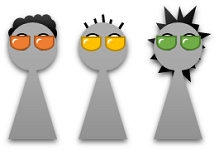
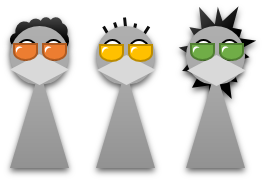
20200929

diff --git a/style/main.css b/style/main.css
@@ -4,7 +4,7 @@ h1,
 h2,
 h3 {
     font-family: Bahnschrift, "Exo 2", sans-serif;
-    text-shadow: 1px 1px 2px darkslategray;
+    text-shadow: 1px 1px 2px #555;
     font-weight: normal;
 }
 
@@ -13,7 +13,7 @@ h5 {
 }
 
 hr {
-    border: 1px solid darkslategray;
+    border: 1px solid #555;
 }
 
 .remark-slide-content {
@@ -22,7 +22,7 @@ hr {
     font-family: "Segoe UI", "Open Sans", sans-serif;
     font-size: 34px;
     color: #333333;
-    border-left: 1em solid darkslategray;
+    border-left: 1em solid #330000;
     padding: 1em 3em;
 }
 
@@ -128,7 +128,7 @@ hr {
 }
 
 .high {
-    font-size: 1.1em;
+    font-size: 1.2em;
 }
 
 .small {

diff --git a/slides.md b/slides.md
@@ -1,11 +1,116 @@
 name: title
 class: middle
 
-# A thousand Djangoes within<br/><small>or Django multi-tenant</small>
+# .high[A thousand Djangoes within]<br/>&nbsp;<small>or Django multi-tenant</small>
 
-<hr/>
+.right[![Logo of PyCon India 2020](images/logo.png)]
 
-![Logo of PyCon India 2020](images/logo.png)
+---
+
+## Syntax error
+
+Django.emph[es] &rightarrow; Django
+
+-   Django.emph[s]
+-   Django.emph[es]
+
+--
+
+<br/>
+
+# A thousand Django.emph[es] within
+
+---
+
+## Hi, I am...
+
+.left-column-66[
+
+#### Lorenzo Peña
+
+-   Proud citizen of Holguín, Cuba
+-   Django developer for 11 years
+-   Chaser of multi-tenancy challenges
+
+]
+.right-column-33[![Photo of myself](images/lorinkoz.jpg)]
+
+---
+
+class: middle
+layout: false
+
+## .blue[How to fit a thousand Djangoes within single a Django?]
+
+--
+
+# .green[Why does it matter?]
+
+---
+
+class: middle center
+layout: false
+
+![Meme of Abe Simpson with kids around](images/abe-simpson-meme.png)
+
+---
+
+layout: true
+
+## A tale of fitting Djangoes
+
+---
+
+--
+
+-   Once upon a time customer .red[**red**] had a problem.
+
+--
+
+-   Our brave hero developed a solution.
+
+--
+
+-   But then, customers .blue[**blue**], .green[**green**] and .yellow[**yellow**] showed up with the same problem.
+
+--
+
+.left-column-66[.box[🤔 What should our hero do?]]
+.right-column-33[.right[![Screenshot of Townscaper with a tiny red house](images/problem-solved.png)]]
+
+---
+
+.left-column-66[![Screenshot of Townscaper with tiny houses](images/single-tenancy.png)]
+
+--
+
+.right-column-33[
+
++20 tenacity
+<br/>
++10 strength
+<br/>
++30 patience
+
+]
+
+---
+
+.left-column-66[![Screenshot of Townscaper with an apartment building](images/multi-tenancy.png)]
+
+--
+
+.right-column-33[
+
++30 intelligence
+<br/>
++40 charisma
+<br/>
+mysterious gauntlet
+<br/>
+brand new badge
+
+]
 
 ---
 
@@ -22,36 +127,11 @@ layout: true
 
 ---
 
--   Customer .red[**red**] has a problem.
-
---
-
--   You develop a solution.
-
---
-
--   Now, customers .blue[**blue**], .green[**green**] and .yellow[**yellow**] have the same problem.
-
---
-
-.left-column-66[.box[🤔 What to do?]]
-.right-column-33[.right[![Screenshot of Townscaper with a tiny red house](images/problem-solved.png)]]
-
----
-
-.center[![Screenshot of Townscaper with tiny houses](images/single-tenancy.png)]
-
----
-
-.center[![Screenshot of Townscaper with an apartment building](images/multi-tenancy.png)]
-
----
-
 .left-column-66[
 
--   Software architecture.
--   Single instance of software.
--   Serves multiple tenants.
+-   Software architecture
+-   Single instance of software
+-   Serves multiple tenants
 
 ]
 
@@ -74,8 +154,8 @@ layout: true
 
 .left-column-66[
 
--   Isolated spaces.
--   Users with specific privileges interact.
+-   Isolated spaces
+-   Users with specific privileges interact
 
 ]
 .right-column-33[
@@ -110,6 +190,19 @@ layout: true
 
 ---
 
+layout: true
+class: middle center
+
+---
+
+![Meme of Multi-tenant Thanos saying "I'm inevitable"](images/thanos-meme-1.png)
+
+---
+
+![Meme of Ironman saying "I am a Django developer"](images/thanos-meme-2.png)
+
+---
+
 layout: false
 
 .box[`echo "Awesome!"`<br/>`python3 manage.py add-multi-tenancy --asap`]
@@ -123,13 +216,21 @@ layout: false
 layout: false
 class: middle
 
-# The active tenant
+# A thousand Djangoes within
+
+--
+
+-   The active tenant
+-   Three architectural choices
+-   The scope of everything else
 
 ---
 
 layout: true
 
 ## The active tenant
+
+---
 
 ---
 
@@ -392,7 +493,7 @@ class IsolatedTenantsDatabaseRouter:
 
 ---
 
-.center[![Scrooge McDuck in a pile of money](images/mcduck-gold.png)]
+.center[![Image of three very rich Bollywood actors](images/rich-indian-actors.png)]
 
 ---
 
@@ -825,48 +926,7 @@ def some_celery_task(self, `tenant_id`, ...):
 
 ---
 
-class: middle
 layout: false
-
-# Now, some of the packages
-
----
-
-layout: true
-
-## Available packages
-
----
-
-##### Shared database
-
--   [citusdata/django-multitenant](https://github.com/citusdata/django-multitenant)
--   [raphaelm/django-scopes](https://github.com/raphaelm/django-scopes)
-
-##### Semi-isolated database
-
--   [bernardopires/django-tenant-schemas](https://github.com/bernardopires/django-tenant-schemas)
--   [tomturner/django-tenants](https://github.com/tomturner/django-tenants)
-
----
-
-layout: false
-
-## Want to contribute?
-
---
-
--   Reporting bugs.
--   Implementing new features.
--   Improving documentation.
-
---
-
-.box[⭐ Come, we need .emph[you]!]
-
-.right[![Figurines used to represent users with sunglasses](images/figurines.png)]
-
----
 
 ## And that's it!
 
@@ -877,6 +937,10 @@ layout: false
 | Twitter | [@lorinkoz](https://twitter.com/lorinkoz)          |
 | GitHub  | [github.com/lorinkoz](https://github.com/lorinkoz) |
 | Email   | [lorinkoz@gmail.com](mailto:lorinkoz@gmail.com)    |
+
+--
+
+.center[![Figurines used to represent users with sunglasses](images/figurines.png)]
 
 ---
 
